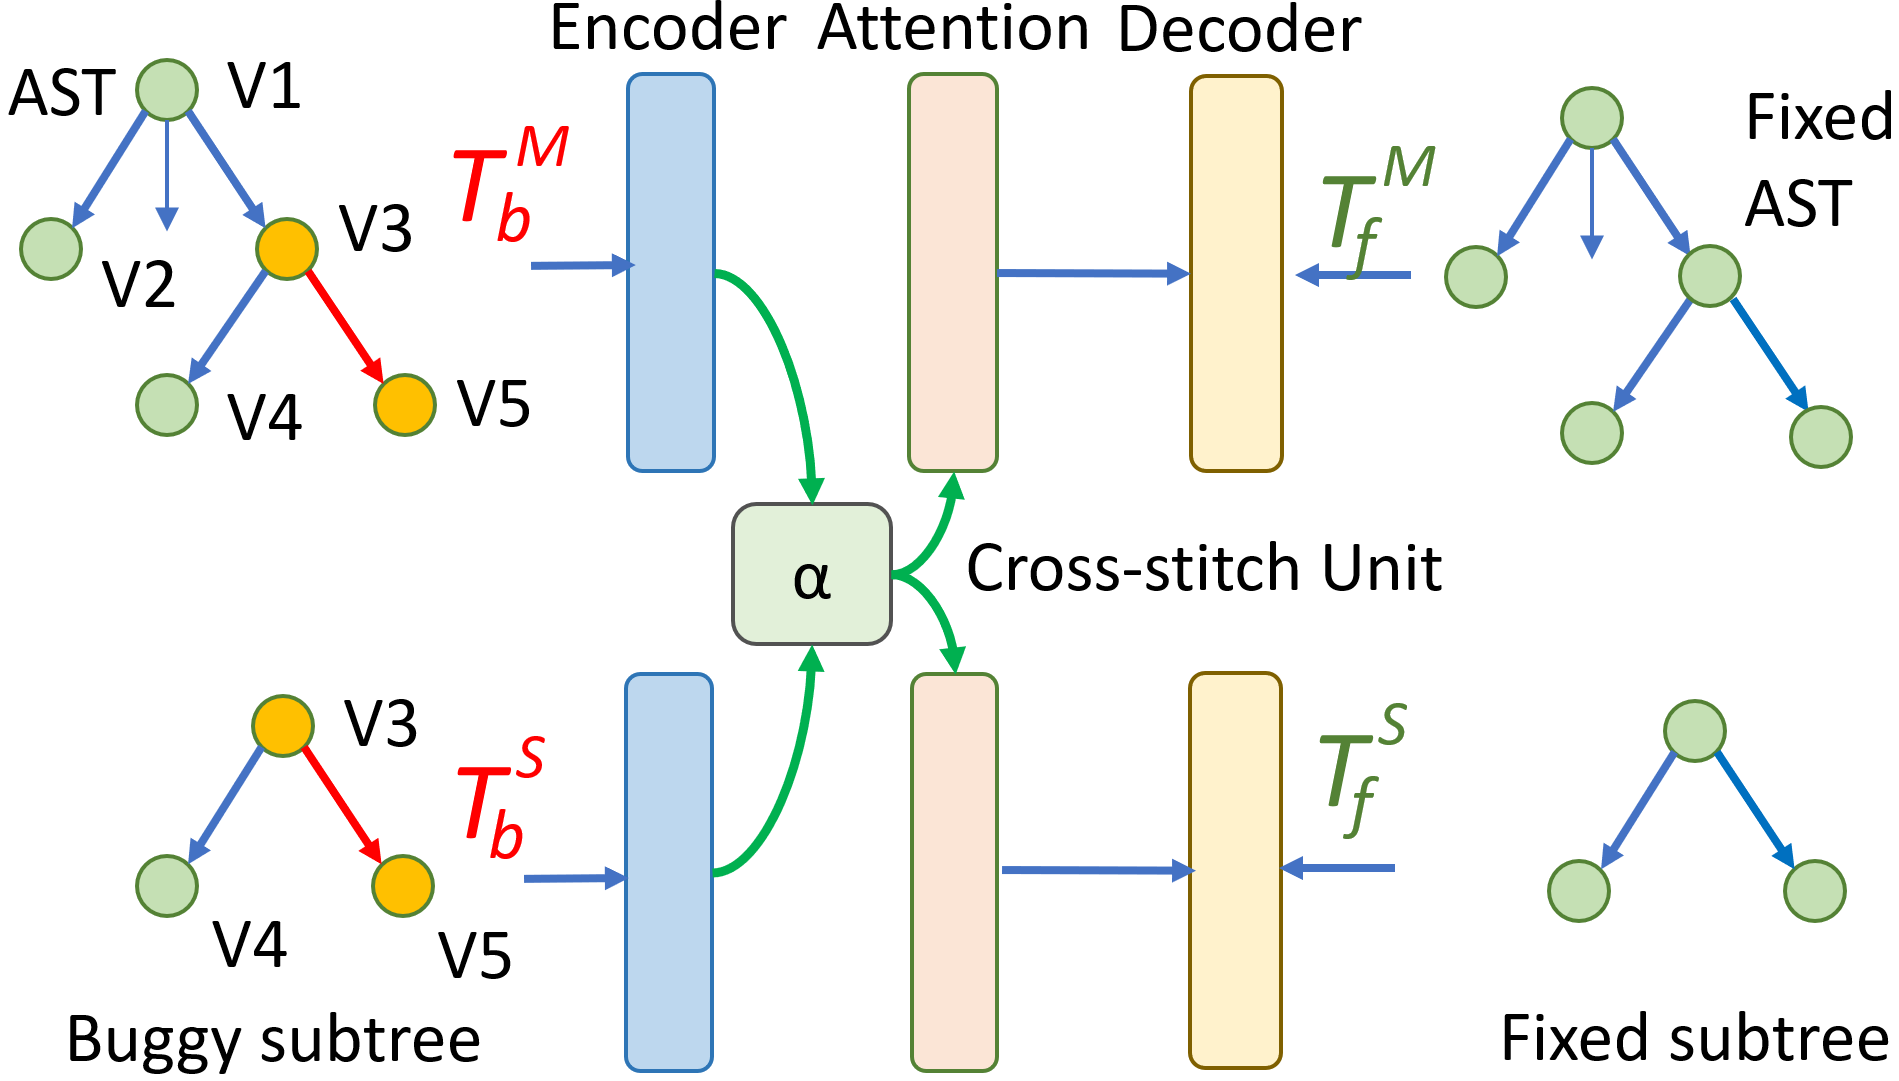
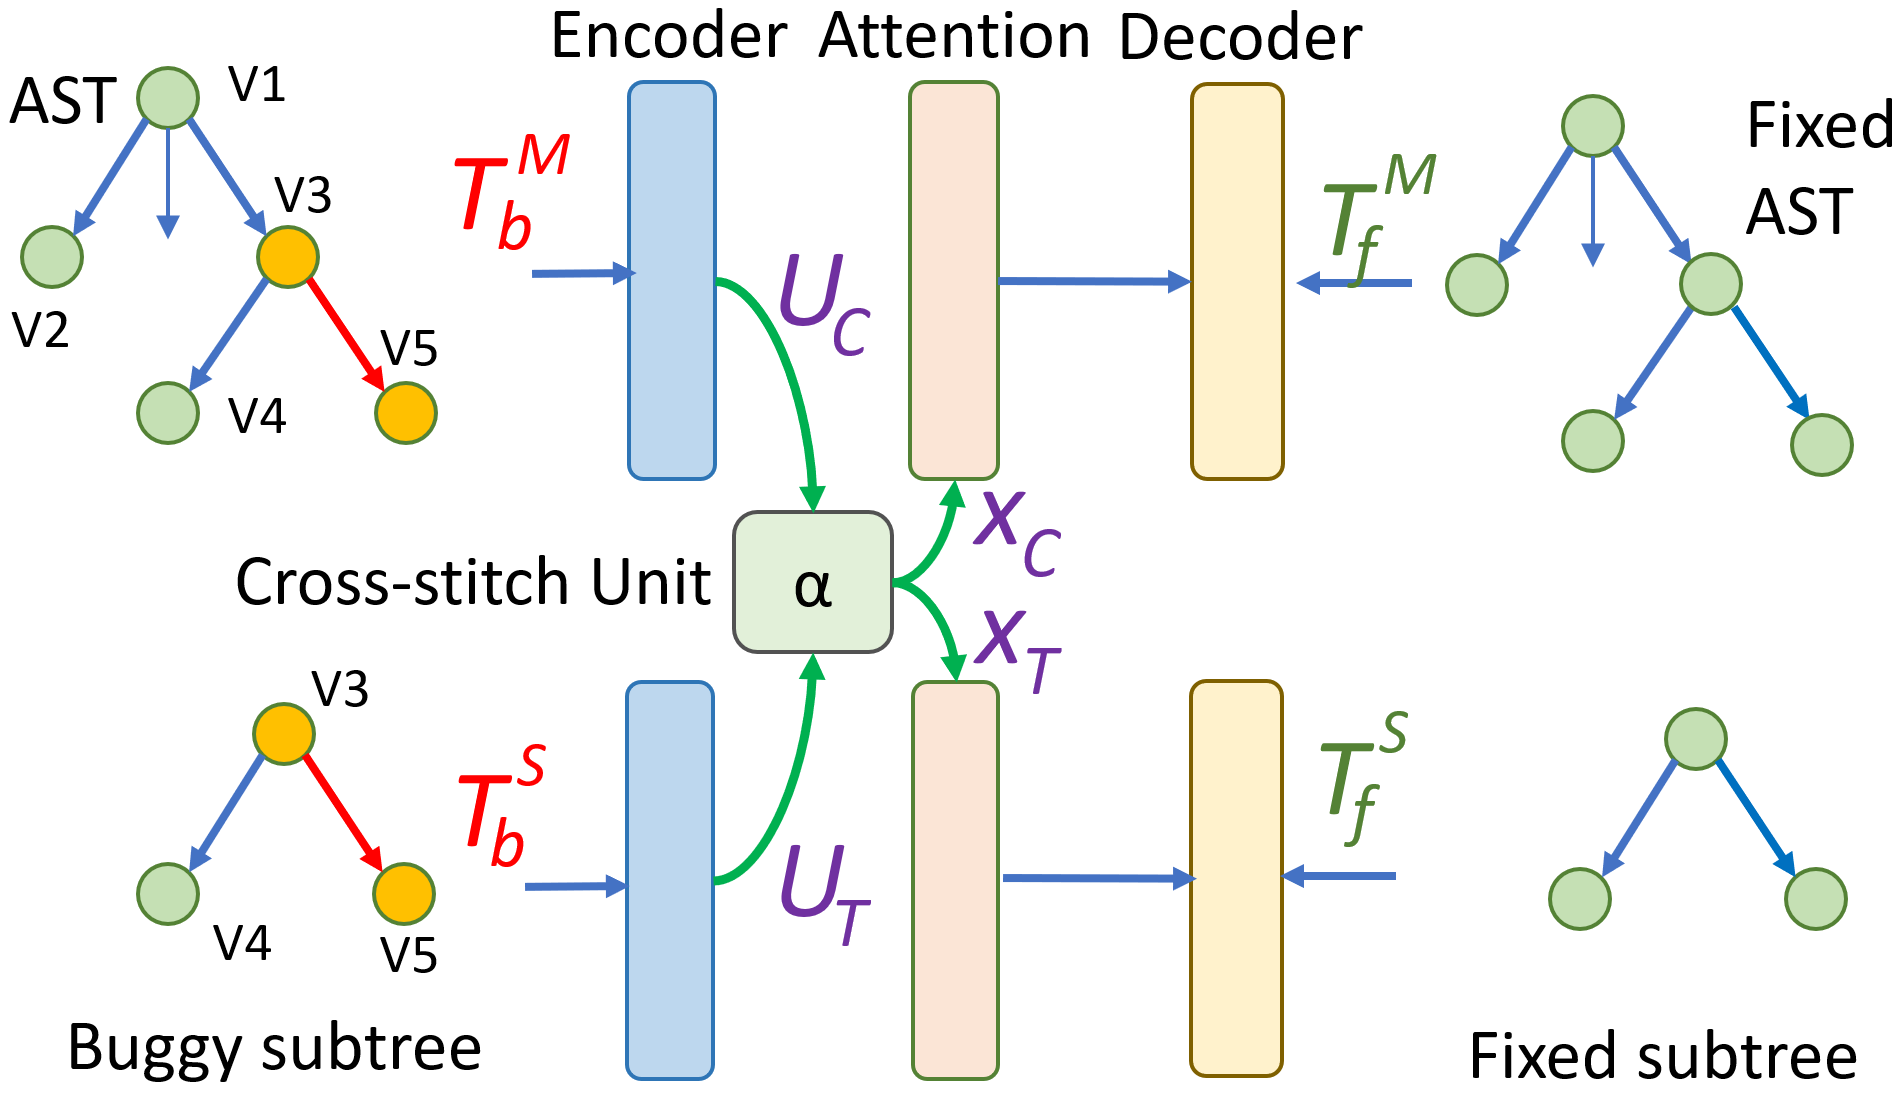
done with dual learning

diff --git a/sections/approaches_step_2.tex b/sections/approaches_step_2.tex
@@ -1,24 +1,23 @@
 \section{Dual Learning Program Repair}
-
-
+\label{sec: dual-learning}
 
 After the representation learning step, we obtain the vectorized AST
 $T^{M}_b$ for the buggy method $M$ and the vectorized AST subtree
 $T^{s}_b$ for the buggy statement $s$, as well as the one for the
 respective fixed method $T^{M}_f$ and the one for the respective fixed
 statement $T^{s}_f$. $T^{M}_b$ and $T^{M}_f$ are used at the input and
-output layers of the context learning model (\code{CCL}); and
+output layers of the context learning model (CCL); and
 $T^{s}_b$ and $T^{s}_f$ are used at the input and output layers of the
-transformation learning model (\code{CTL}). Let us explain the dual
-learning framework for \code{CCL} and \code{CTL}.
+transformation learning model (CTL). Let us explain the dual
+learning framework for CCL and CTL.
 
 %After having the $Tree_m$, $Tree_{mf}$ pair and $Tree_s$, $Tree_{sf}$ pair from the first step, \tool uses them as the input and the ground truth to train the dual learning program repair model in this step. \tool uses the generated after fixing AST $Tree'_m$ and after fixing subtree of AST $Tree'_s$ as output for this step when making the prediction. Specifically, there are two small steps, including the AST node representation learning and the dual learning framework.
 
 
 \subsection{Cross-stitch Unit}
 
-We perform a joint training between \code{CCL} and \code{CTL} via
-cross-stitch units~\cite{misra2016cross}. Let us first explain the
+We perform a joint training between CCL and CTL via
+a cross-stitch unit~\cite{misra2016cross}. Let us first explain the
 cross-stitch unit and then how we leverage it for the auto bug-fixing
 problem.
 
@@ -30,24 +29,24 @@ problem.
 \end{figure}
 
 In Figure~\ref{fig:cross-stitch}, to apply dual learning between
-\code{CCL} and \code{CTL}, we use the cross-stitch unit to connect
-them together. The sharing of representations between \code{CCL} and
-\code{CTL} is modeled by the learning a linear combination of the
+CCL and CTL, we use the cross-stitch unit to connect
+them together. The sharing of representations between CCL and
+CTL is modeled by the learning a linear combination of the
 input features from the vectorized AST (sub)trees. The top sub-network
-of the cross-stitch unit get direct supervision from \code{CCL} and
-indirect supervision from \code{CTL}. Cross-stitch units help
-regularize both \code{CCL} and \code{CTL} by learning and enforcing
+of the cross-stitch unit gets direct supervision from CCL and
+indirect supervision from CTL. Cross-stitch units help
+regularize both CCL and CTL by learning and enforcing
 shared representations by combining feature
 maps~\cite{misra2016cross}.
 
 The goal of cross-stitch unit is to learn such a linear combination of
-both inputs from \code{CCL} and \code{CTL}, which is parameterized
+both inputs from CCL and CTL, which are parameterized
 using the weights $\alpha$. The output of the cross-stitch unit is
 computed as:
 \begin{equation}\label{eq:cross-stitch}
 	\begin{bmatrix}
-		I_C\\
-		I_T
+		O_C\\
+		O_T
 	\end{bmatrix}
 	=
 	\begin{bmatrix}
@@ -55,16 +54,16 @@ computed as:
 		\alpha_{TC} &  \alpha_{TT}
 	\end{bmatrix}
 	\begin{bmatrix}
-		O_C\\
-		O_T
+		I_C\\
+		I_T
 	\end{bmatrix}
 \end{equation}
 $I_C$ and $I_T$ are the inputs for the cross-stitch unit, which are
-the outputs from a layer of \code{CCL} and \code{CTL}. $O_C$ and $O_T$
-are the outputs from the cross-stitch unit, which can be used as the
-inputs for the next layer of the two models. In this case, the next
-layers (noted as \code{CCL*} and \code{CTL*}) are the ones with the
-shared representations and having the joint training. More details are
+the outputs from a layer of CCL and CTL. $O_C$ and $O_T$ are the
+outputs from the cross-stitch unit, which can be used as the inputs
+for the next layer of the two models. In this case, the next layers
+(noted as CCL* and CTL*) are the ones with the shared representations
+and having the joint training. More details on cross-stitch are
 in~\cite{misra2016cross}.
 
 \subsection{Dual Learning between CCL and CTL}
@@ -77,23 +76,22 @@ in~\cite{misra2016cross}.
 \end{figure}
 
 We use two separate attention-based \code{seq2seq} models to implement
-\code{CCL} and \code{CTL}. The dual training is illustrated in
+CCL and CTL. The dual training is illustrated in
 Figure~\ref{fig:dual-learning}. Specifically, we use
 TreeCaps~\cite{bui2021treecaps} with an attention layer in between of
 an encoder and a decoder. In a regular attention-based \code{seq2seq}
-model, the hidden state output from the encoder is directly
-connected to the attention layer. In {\tool}, for dual learning, we
-use a cross-stitch unit to accept the hidden state from the outputs of
-the encoders of \code{CCL} and \code{CTL}. The output of the
-cross-stitch unit is connected to the attention layers of both the
-models. This joint training enables the dual learning and propagates
-the impact of context learning on the transformation learning and vice
-versa.
+model, the hidden state output from the encoder is directly connected
+to the attention layer. In {\tool}, for dual learning, we use a
+cross-stitch unit to accept as the input the hidden state from the
+outputs of the encoders of CCL and CTL. The output of the cross-stitch
+unit is connected to the attention layers of both the models. This
+joint training enables the dual learning and propagates the impact of
+context learning on code transformation learning and vice versa.
 
 \subsubsection*{\bf Formulation.}
 As we use TreeCaps~\cite{bui2021treecaps}, which is built on top of
-$k$ TBCNN layers~\cite{mou2014tbcnn}, at the layer $k$, the output of
-the convolution window is calculated as:
+$k$ TBCNN layers~\cite{mou2014tbcnn}, at the $k^{th}$ layer, the
+output of the convolution window is calculated as:
 \begin{equation}\label{eq:treecaps}
 	Y = tanh(\sum_{i=1}^{N}[\Delta^t_iW^t + \Delta^t_iW^t + \Delta^t_iW^t]X_i + b)
 \end{equation}
@@ -108,14 +106,14 @@ calculates the capsule $u_j$ as:
 \begin{equation}\label{eq:2}
 	u_j = \frac{||c_j||^2}{||c_j||^2+1}\frac{c_j}{||c_j||}
 \end{equation}
-We then perform depth-first-search traversal, and merge all the
+We then perform a depth-first-search traversal, and merge all the
 capsules of all the nodes in that order. We consider the list of
 capsules as the output $U$ of the TreeCaps model. With both
-\code{CCL} and \code{CTL}, we have the outputs $U_C$ for the context
+CCL and CTL, we have the outputs $U_C$ for the context
 learning part and $U_T$ for the transformation learning part.
 
-With both $U_C$ and $U_T$ as the inputs of the cross-stitch unit, its
-output is computed as:
+With both $U_C$ and $U_T$ as the inputs of the cross-stitch unit, the
+outputs of the cross-stitch unit are computed as:
 \begin{equation}\label{eq:3}
 	\begin{bmatrix}
 		X_C\\
@@ -135,7 +133,7 @@ Where $\alpha$ is the trainable weight matrix, $X_C$ and $X_T$ are the
 outputs of the cross-stitch unit, which are in turn fed into the
 attention layers of both models. $X_C$ and $X_T$ contain the
 information learned from both context learning and transformation
-learning models, which helps achieve the main goal for dual learning
+learning models, which helps achieve the main goal of dual learning
 to enhance the APR performance. From Formula~\ref{eq:3}, we have
 \begin{equation}\label{eq:4}
 	X_C = \alpha_{CC}U_C + \alpha_{CT}U_T
@@ -148,9 +146,9 @@ for consistence. If the size needs to be increased, we use the
 bilinear interpolation for resizing. If the size needs to be reduced,
 we do the center crop on the matrix to match the required
 size. Moreover, for efficiency, we also have a size limit for the
-fixed tree in which each buggy node have at most $P+P^2+...+P^Q$
+fixed tree in which each buggy tree has at most $P+P^2+...+P^Q$
 nodes.  $P$ is the number of children nodes and $Q$ is the child node
-depth. When making predictions, if one vector is close to zero, we consider
+depth. When making prediction, if one vector is close to zero, we consider
 it as empty, and all of its children nodes are considered as empty.
 
 %After solving this, here is one last problem the dual learning may
